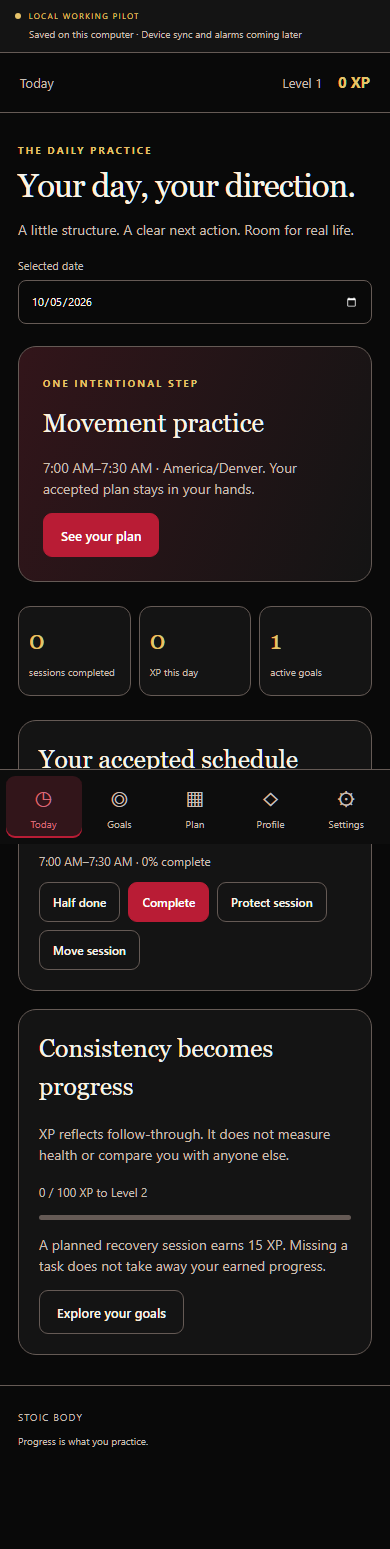
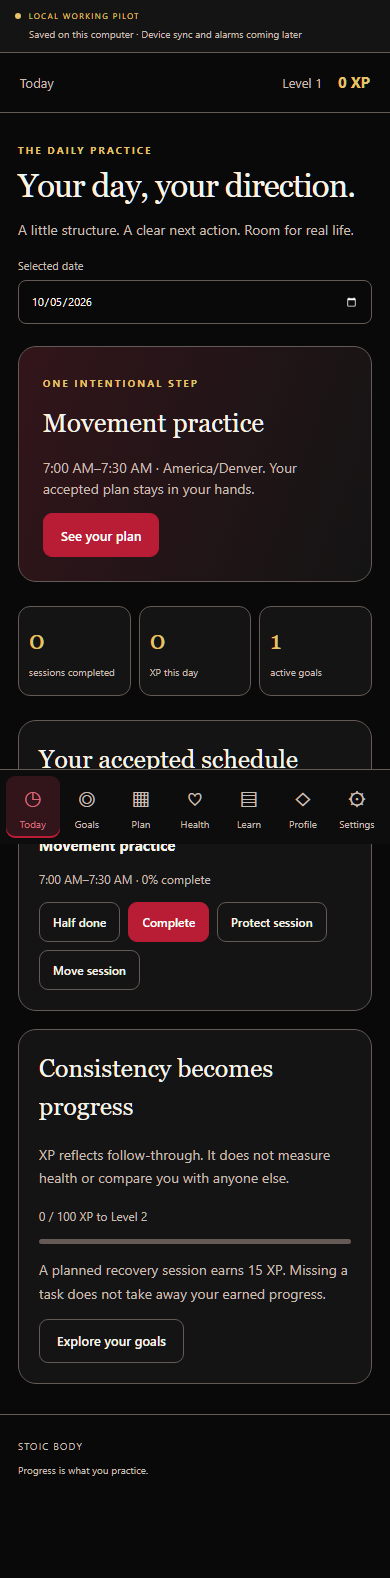
fix: preserve health edits and verify learning and health handoff

diff --git a/apps/local-pilot/public/health.js b/apps/local-pilot/public/health.js
@@ -5,6 +5,7 @@ window.Health = (() => {
   let compare = ['balanced', 'omad'];
   let trainingDraft = { adult: false, restrictions: 'unknown', equipment: [], style: 'full-body', minutes: 30, preference: 'higher-reps', goalId: null };
   const edits = {};
+  const historyLimits = {};
   const el = (...a) => ctx.element(...a), button = (...a) => ctx.action(...a), records = () => ctx.snapshot().health || [];
   function field(form, name, label, type = 'text', value = '', options = [], required = true) {
     const wrapper = el('label', label), input = el(type === 'select' ? 'select' : type === 'textarea' ? 'textarea' : 'input'); input.name = name; input.setAttribute('aria-label', label);
@@ -23,18 +24,22 @@ window.Health = (() => {
   function save(kind, data) { const edit = edits[kind]; void ctx.command('health.save', edit?.id || crypto.randomUUID(), { kind, data: { ...data, date: data.date || ctx.date() } }, edit?.revision || 0, 'Health entry saved.'); }
   function link(parent, source) { const a = el('a', source.title); a.href = source.url; a.target = '_blank'; a.rel = 'noopener noreferrer'; parent.append(a, el('small', ` · ${source.published || 'Publication date not verified'}${source.access ? ` · ${source.access}` : ''}`, 'muted')); }
   function list(kind, parent, title) {
-    const list = ctx.card(title), entries = records().filter(r => r.kind === kind).slice().reverse().slice(0, 20);
+    const list = ctx.card(title), all = records().filter(r => r.kind === kind).slice().reverse().sort((a, b) => String(b.data.date).localeCompare(String(a.data.date)));
+    const limit = historyLimits[kind] || 20, entries = all.slice(0, limit);
     if (!entries.length) list.append(el('p', 'Your entries will appear here.', 'muted'));
     for (const r of entries) {
       const row = el('article', undefined, 'pilot-row'), d = r.data;
       row.append(el('h3', String(d.title || d.exercise || (kind === 'water' ? `${d.ml} ml` : kind === 'measurement' ? `${d.metric}: ${d.value} ${d.unit}` : 'Daily check-in'))));
       row.append(el('p', `${d.date}${d.portion ? ` · ${d.portion} · ${d.source}` : ''}${r.archived ? ' · Archived' : ''}`, 'muted'));
+      if (kind === 'workout') row.append(el('p', `${d.sets.map(s => `${s.reps} reps × ${s.load} ${s.unit}`).join('; ') || 'Timed practice'} · ${d.duration} min${d.effort === null ? '' : ` · effort ${d.effort}/10`}${d.pain ? ' · discomfort reported' : ''}`, 'muted'));
       const controls = el('div', undefined, 'pilot-actions');
       if (!r.archived) controls.append(button(`Edit ${kind === 'checkin' ? 'check-in' : kind}`, () => { edits[kind] = r; if (kind === 'workout') { selectedRoutine = String(d.routineId); selectedExercise = String(d.exercise); } ctx.render(); }));
       controls.append(button(r.archived ? 'Restore entry' : 'Archive entry', () => ctx.command('health.archive', r.id, { archived: !r.archived }, r.revision, 'Entry updated.')));
       if (kind === 'food' && !r.archived) controls.append(button('Use again', () => { edits.food = { data: { ...r.data, date: ctx.date() } }; ctx.render(); }));
       row.append(controls); list.append(row);
-    } parent.append(list);
+    }
+    if (all.length > entries.length) list.append(button(`Show more ${kind} entries`, () => { historyLimits[kind] = limit + 20; ctx.render(); }));
+    parent.append(list);
   }
   async function summary(parent, currentGeneration, progress = false) {
     try {
@@ -118,11 +123,12 @@ window.Health = (() => {
     const gear = el('fieldset'); gear.append(el('legend', 'Available equipment (bodyweight is always available)'));
     for (const [key, label] of [['cables', 'Cables'], ['bench', 'Bench'], ['barbell', 'Barbell'], ['pullup', 'Pull-up bar'], ['treadmill', 'Treadmill'], ['bag', 'Boxing bag']]) field(gear, key, label, 'checkbox', trainingDraft.equipment.includes(key), [], false); f.append(gear);
     field(f, 'goal', 'Routine goal', 'select', trainingDraft.goalId || '', [['', 'Health / deliberate practice'], ...ctx.snapshot().goals.filter(g => !g.archived).map(g => [g.id, g.title])], false);
-    submit(f, 'Preview routine', () => { trainingDraft = { adult: f.elements.adult.checked, restrictions: value(f, 'restrictions'), style: value(f, 'style'), minutes: numeric(f, 'minutes'), preference: value(f, 'preference'), equipment: ['cables', 'bench', 'barbell', 'pullup', 'treadmill', 'bag'].filter(k => f.elements[k].checked), goalId: value(f, 'goal') || null }; void ctx.send('training-preview', trainingDraft, 'Routine preview ready. Review before saving.'); });
+    const readDraft = () => ({ adult: f.elements.adult.checked, restrictions: value(f, 'restrictions'), style: value(f, 'style'), minutes: numeric(f, 'minutes'), preference: value(f, 'preference'), equipment: ['cables', 'bench', 'barbell', 'pullup', 'treadmill', 'bag'].filter(k => f.elements[k].checked), goalId: value(f, 'goal') || null });
+    submit(f, 'Preview routine', () => { trainingDraft = readDraft(); void ctx.send('training-preview', trainingDraft, 'Routine preview ready. Review before saving.'); });
     c.append(el('p', 'Starter examples use conservative bodyweight/cable movements. A bench, barbell, pull-up bar or bag selection does not automatically prescribe advanced work. A checkbox is not medical clearance.', 'muted')); left.append(c);
     let previewPanel;
     if (preview) { const review = routineCard(preview, 'Review your starter session'); previewPanel = review; if (preview.eligible) review.append(button('Save routine to tasks', () => ctx.command('training.create', crypto.randomUUID(), preview.input, 0, 'Routine saved. Review its place in Plan.'), true)); left.append(review); }
-    f.addEventListener('input', () => { preview = null; previewPanel?.remove(); });
+    f.addEventListener('input', () => { trainingDraft = readDraft(); preview = null; previewPanel?.remove(); });
     const routines = records().filter(r => r.kind === 'routine' && !r.archived);
     if (routines.length) {
       if (!routines.some(r => r.id === selectedRoutine)) selectedRoutine = routines[0].id;
@@ -130,11 +136,22 @@ window.Health = (() => {
       const routine = routines.find(r => r.id === selectedRoutine), [log, lf, ld] = editor('workout', 'Record actual practice');
       if (!routine.data.exercises.some(e => e.name === selectedExercise)) selectedExercise = routine.data.exercises[0].name;
       const exercise = field(lf, 'exercise', 'Exercise', 'select', selectedExercise, routine.data.exercises.map(e => [e.name, e.name])); exercise.addEventListener('change', () => { selectedExercise = exercise.value; loadAdvice(); });
-      const firstSet = ld.sets?.[0]; field(lf, 'count', 'Number of matching sets', 'number', ld.sets?.length ?? 2); field(lf, 'reps', 'Repetitions per set', 'number', firstSet?.reps ?? 12); field(lf, 'load', 'Load per set', 'number', firstSet?.load ?? 0); field(lf, 'unit', 'Load unit', 'select', firstSet?.unit || 'lb', [['lb', 'lb'], ['kg', 'kg']]);
-      lf.append(el('p', 'Use zero load for bodyweight. Use zero sets for a timed-only practice. This entry records matching sets; log another entry for sets with different reps or loads.', 'muted'));
+      const firstSet = ld.sets?.[0], mixedSets = ld.sets?.some(s => s.reps !== firstSet.reps || s.load !== firstSet.load || s.unit !== firstSet.unit);
+      if (mixedSets) {
+        lf.append(el('p', 'This entry contains different sets. Each recorded set is preserved and can be edited below.', 'muted'));
+        ld.sets.forEach((s, i) => { const group = el('fieldset'); group.append(el('legend', `Set ${i + 1}`)); field(group, `reps${i}`, `Set ${i + 1} repetitions`, 'number', s.reps); field(group, `load${i}`, `Set ${i + 1} load`, 'number', s.load); field(group, `unit${i}`, `Set ${i + 1} unit`, 'select', s.unit, [['lb', 'lb'], ['kg', 'kg']]); lf.append(group); });
+      } else {
+        field(lf, 'count', 'Number of matching sets', 'number', ld.sets?.length ?? 2); field(lf, 'reps', 'Repetitions per set', 'number', firstSet?.reps ?? 12); field(lf, 'load', 'Load per set', 'number', firstSet?.load ?? 0); field(lf, 'unit', 'Load unit', 'select', firstSet?.unit || 'lb', [['lb', 'lb'], ['kg', 'kg']]);
+        lf.append(el('p', 'Use zero load for bodyweight. Use zero sets for a timed-only practice. This entry records matching sets; log another entry for sets with different reps or loads.', 'muted'));
+      }
       field(lf, 'duration', 'Exercise duration (minutes)', 'number', ld.duration || 5); field(lf, 'effort', 'Effort (0–10, optional)', 'number', ld.effort, [], false); field(lf, 'pain', 'Discomfort or pain occurred', 'checkbox', ld.pain || false, [], false); field(lf, 'notes', 'Exercise notes', 'textarea', ld.notes, [], false);
-      submit(lf, 'Save exercise log', () => { const count = numeric(lf, 'count'); if (!Number.isInteger(count) || count < 0 || count > 30) { lf.elements.count.setCustomValidity('Choose 0–30 matching sets.'); lf.elements.count.reportValidity(); return; } lf.elements.count.setCustomValidity(''); save('workout', { date: ld.date, routineId: selectedRoutine, exercise: value(lf, 'exercise'), sets: Array.from({ length: count }, () => ({ reps: numeric(lf, 'reps'), load: numeric(lf, 'load'), unit: value(lf, 'unit') })), duration: numeric(lf, 'duration'), effort: numeric(lf, 'effort'), pain: lf.elements.pain.checked, notes: value(lf, 'notes') }); });
-      lf.elements.count.addEventListener('input', () => lf.elements.count.setCustomValidity(''));
+      submit(lf, 'Save exercise log', () => {
+        let sets;
+        if (mixedSets) sets = ld.sets.map((_, i) => ({ reps: numeric(lf, `reps${i}`), load: numeric(lf, `load${i}`), unit: value(lf, `unit${i}`) }));
+        else { const count = numeric(lf, 'count'); if (!Number.isInteger(count) || count < 0 || count > 30) { lf.elements.count.setCustomValidity('Choose 0–30 matching sets.'); lf.elements.count.reportValidity(); return; } lf.elements.count.setCustomValidity(''); sets = Array.from({ length: count }, () => ({ reps: numeric(lf, 'reps'), load: numeric(lf, 'load'), unit: value(lf, 'unit') })); }
+        save('workout', { date: ld.date, routineId: selectedRoutine, exercise: value(lf, 'exercise'), sets, duration: numeric(lf, 'duration'), effort: numeric(lf, 'effort'), pain: lf.elements.pain.checked, notes: value(lf, 'notes') });
+      });
+      lf.elements.count?.addEventListener('input', () => lf.elements.count.setCustomValidity(''));
       right.append(log); const details = el('details'); details.append(el('summary', 'View saved session instructions'), routineCard(routine.data)); right.append(details);
       const advice = ctx.card('Progression review'); advice.append(el('p', 'Loading your practice history…', 'muted')); right.append(advice); const current = generation;
       let adviceRequest = 0;
@@ -158,7 +175,7 @@ window.Health = (() => {
     ({ fuel, train, progress, evidence })[tab](root, current);
   }
   function onResult(path, data, result) {
-    if (path === 'training-preview') preview = result;
+    if (path === 'training-preview') { if (JSON.stringify(data) !== JSON.stringify(trainingDraft)) return false; preview = result; }
     if (path === 'command' && data.type === 'health.save') edits[data.payload.kind] = null;
     if (path === 'command' && data.type === 'training.create') { selectedRoutine = data.entityId; selectedExercise = ''; preview = null; }
   }

diff --git a/tests/pilot/health-recovery.test.ts b/tests/pilot/health-recovery.test.ts
@@ -1,0 +1,51 @@
+import assert from 'node:assert/strict';
+import test from 'node:test';
+import { chromium, type Page } from 'playwright';
+import { startPilot } from '../../apps/local-pilot/server';
+import type { Snapshot, Command } from '../../src/core/repository';
+async function fixture(run: (page: Page, state: () => Promise<Snapshot>, command: (type: string, entityId: string, payload: unknown) => Promise<void>) => Promise<void>) {
+  const pilot = await startPilot({ databasePath: ':memory:', port: 0 }), browser = await chromium.launch({ headless: true });
+  const page = await browser.newPage(); page.setDefaultTimeout(3000);
+  try {
+    await page.goto(pilot.url); await page.getByText('Nothing scheduled yet.', { exact: true }).waitFor();
+    const bootstrap = await (await page.request.get(`${pilot.url}/api/bootstrap`)).json(), headers = { 'X-Stoic-Token': bootstrap.token, Origin: pilot.url };
+    const state = async (): Promise<Snapshot> => (await (await page.request.get(`${pilot.url}/api/snapshot`, { headers })).json()).snapshot;
+    const command = async (type: string, entityId: string, payload: unknown) => {
+      const data: Command = { schemaVersion: 1, operationId: crypto.randomUUID(), deviceId: 'test', type, entityId, payload, baseRevision: 0 };
+      const r = await page.request.post(`${pilot.url}/api/command`, { headers, data }); assert.equal(r.status(), 200, await r.text());
+    };
+    await run(page, state, command);
+  } finally { await browser.close(); await pilot.close(); }
+}
+test('latest logs sort by date and insertion order and older entries remain accessible', async () => fixture(async (page, _state, command) => {
+  for (let i = 0; i < 21; i++) await command('health.save', `z${String(i).padStart(2, '0')}`, { kind: 'food', data: { date: '2026-10-03', title: `Earlier meal ${i}`, portion: '1 serving', source: 'estimate' } });
+  await command('health.save', 'a-new', { kind: 'food', data: { date: '2026-10-04', title: 'Newest meal', portion: '1 serving', source: 'estimate' } });
+  await page.reload(); await page.getByRole('button', { name: 'Health', exact: true }).click();
+  await page.getByRole('heading', { name: 'Recent meals', exact: true }).waitFor();
+  const list = page.getByRole('heading', { name: 'Recent meals', exact: true }).locator('..');
+  assert.equal(await list.locator('article h3').first().textContent(), 'Newest meal');
+  await page.getByRole('button', { name: 'Show more food entries' }).click();
+  await page.getByRole('heading', { name: 'Earlier meal 0', exact: true }).waitFor();
+  assert.equal(await list.locator('article').count(), 22);
+}));
+test('a delayed training response cannot revert changed suitability or permit stale saving', async () => fixture(async page => {
+  await page.getByRole('button', { name: 'Health', exact: true }).click(); await page.getByRole('button', { name: 'Train', exact: true }).click();
+  await page.getByLabel('I am 18 or older', { exact: true }).check(); await page.getByLabel('Relevant restrictions').selectOption('none');
+  let release!: () => void, intercepted!: () => void;
+  const gate = new Promise<void>(resolve => { release = resolve; }), arrived = new Promise<void>(resolve => { intercepted = resolve; });
+  await page.route('**/api/training-preview', async route => { intercepted(); await gate; await route.continue(); });
+  await page.getByRole('button', { name: 'Preview routine', exact: true }).click(); await arrived;
+  await page.getByLabel('Relevant restrictions').selectOption('yes'); release();
+  await page.waitForFunction(() => !document.querySelector<HTMLButtonElement>('#reload')?.disabled);
+  assert.equal(await page.getByLabel('Relevant restrictions').inputValue(), 'yes');
+  assert.equal(await page.getByRole('button', { name: 'Save routine to tasks', exact: true }).count(), 0);
+}));
+test('editing notes preserves heterogeneous workout set values', async () => fixture(async (page, state, command) => {
+  await command('training.create', 'routine', { adult: true, restrictions: 'none', equipment: ['cables'], style: 'full-body', minutes: 30, preference: 'higher-reps' });
+  const sets = [{ reps: 12, load: 20, unit: 'lb' }, { reps: 10, load: 10, unit: 'kg' }];
+  await command('health.save', 'log', { kind: 'workout', data: { date: '2026-10-04', routineId: 'routine', exercise: 'Cable row', sets, duration: 6, effort: 6, pain: false, notes: 'Original' } });
+  await page.reload(); await page.getByRole('button', { name: 'Health', exact: true }).click(); await page.getByRole('button', { name: 'Train', exact: true }).click();
+  await page.getByRole('button', { name: 'Edit workout', exact: true }).click(); await page.getByLabel('Exercise notes').fill('Corrected note');
+  await page.getByRole('button', { name: 'Save exercise log', exact: true }).click(); await page.getByText('Health entry saved.', { exact: true }).waitFor();
+  const log = (await state()).health.find(r => r.id === 'log')!; assert.equal(log.data.notes, 'Corrected note'); assert.deepEqual(log.data.sets, sets);
+}));

diff --git a/scripts/test-learning-pilot.ts b/scripts/test-learning-pilot.ts
@@ -40,6 +40,13 @@ async function run() {
     check('notes, linked task and XP survive a real server restart');
     await page.getByRole('button', { name: 'Back to learning library', exact: true }).click();
     await page.getByRole('button', { name: 'My paths', exact: true }).click(); check('enrolled filter shows one course', await page.locator('.learn-course').count() === 1);
+    await page.getByRole('button', { name: 'All paths', exact: true }).click(); check('nine learning paths are available', await page.locator('.learn-course').count() === 9);
+    await page.screenshot({ path: join(evidence, 'library-desktop.png'), fullPage: true });
+    await page.getByRole('button', { name: 'Explore AI from foundations to agents', exact: true }).click();
+    check('the image roadmap includes eleven topic checkpoints', await page.locator('.learn-step').count() === 11);
+    await page.getByRole('button', { name: '07  RAG — retrieving useful evidence', exact: true }).click();
+    check('RAG opens its verified curriculum chapter', (await page.getByRole('link', { name: 'Open lesson or reference' }).getAttribute('href'))?.endsWith('/15-rag-and-vector-databases'));
+    await page.screenshot({ path: join(evidence, 'ai-roadmap-desktop.png'), fullPage: true });
     check('no browser runtime errors', errors.length === 0);
     writeFileSync(join(evidence, 'browser-checks.json'), JSON.stringify({ at: new Date().toISOString(), checks, errors }, null, 2)); console.log(`${checks.length} learning browser checks passed.`);
   } finally { await browser.close(); await pilot.close(); const target = resolve(dir); assert.equal(dirname(target), resolve(tmpdir())); assert.ok(basename(target).startsWith('stoic-learning-')); rmSync(target, { recursive: true, force: true }); }

diff --git a/src/core/health-store.ts b/src/core/health-store.ts
@@ -9,7 +9,7 @@ export function migrateHealth(db: DatabaseSync) {
   catch (error) { if (db.isTransaction) db.exec('ROLLBACK'); throw error; }
 }
 export function readHealth(db: DatabaseSync, owner: string): HealthRecord[] {
-  return db.prepare('SELECT id,kind,revision,archived,data_json FROM core_health WHERE owner_id=? ORDER BY id').all(owner).map(r => ({ id: String(r.id), kind: String(r.kind), revision: Number(r.revision), archived: Boolean(r.archived), data: JSON.parse(String(r.data_json)) }));
+  return db.prepare('SELECT id,kind,revision,archived,data_json FROM core_health WHERE owner_id=? ORDER BY rowid').all(owner).map(r => ({ id: String(r.id), kind: String(r.kind), revision: Number(r.revision), archived: Boolean(r.archived), data: JSON.parse(String(r.data_json)) }));
 }
 export function healthDate(v: unknown): string {
   if (typeof v !== 'string' || !/^\d{4}-\d\d-\d\d$/.test(v) || v < '1970-01-01' || v > '2100-12-31' || !Number.isFinite(Date.parse(`${v}T00:00:00Z`)) || new Date(`${v}T00:00:00Z`).toISOString().slice(0, 10) !== v) throw new Error('Choose a valid date.');

diff --git a/apps/local-pilot/public/app.js b/apps/local-pilot/public/app.js
@@ -51,7 +51,7 @@ async function send(path, data, success) {
   setBusy(true); errorMessage('');
   try {
     const result = await api(path, data); pendingRequest = null;
-    Health.onResult(path, data, result);
+    if (Health.onResult(path, data, result) === false) { message('Inputs changed while the routine preview was loading. Request a fresh preview.'); return; }
     if (path === 'propose') { preview = result; timezone = result.proposal.timezone; selectedDate = data.date; }
     if (path === 'time') manualPreview = result;
     if (path === 'command') {

diff --git a/docs/requirements.md b/docs/requirements.md
@@ -1,6 +1,6 @@
 # Requirements and verification register
 
-Date: 2026-10-04. 96 requirements. Original requirements are retained; B11 adds mandatory launch sync. [Phase 2 design/plan coverage](architecture/traceability.md) is separate from actual implementation evidence. See the [baseline assessment](architecture/baseline-assessment.md) for mismatches in separately created app code.
+Date: 2026-10-04. 101 requirements including the five learning additions below. Original requirements are retained; B11 adds mandatory launch sync. [Phase 2 design/plan coverage](architecture/traceability.md) is separate from actual implementation evidence. See the [baseline assessment](architecture/baseline-assessment.md) for mismatches in separately created app code. The dated continuation evidence below updates earlier design-only statuses without implying full production acceptance.
 
 | ID | Source | Requirement | Proposed design | Phase | Required verification | Current status / evidence |
 |---|---|---|---|---|---|---|
@@ -100,3 +100,21 @@ Date: 2026-10-04. 96 requirements. Original requirements are retained; B11 adds 
 | B10 | Later user request: competitors and top sellers/performers | Compare relevant competitors using actual market-performance signals, interfaces, operating flows and commercial models; distinguish revenue, downloads, users, ratings and awards. | Dated competitor matrix and source register with metric scope and confidence | 1, 6B, 8 | Audit country/platform/period/source, conflicting snapshots and unsupported rankings | 24-product public-evidence comparison recorded; native/account behavior not tested; research/competitors/README.md; research/competitors/matrix.md; research/competitors/sources.json |
 | V07 | Later user request: competitor interfaces and ideas | Study competitor screens and end-to-end interactions and adapt useful patterns into one coherent original Stoic Body experience. | Visual reference board, 26-step journey map and explicit adaptation decisions | 1–3, 7 | Compare prototypes against benchmark tasks and verify clarity, effort, accessibility and failure recovery | 10 public visual references and proposed adaptations; prototype pending approval; research/competitors/interface-board.html; research/competitors/visual-audit.md; research/competitors/experience-patterns.md; partial Phase 3 design evidence: [review](phase-3-review.md); production acceptance remains pending |
 | B11 | Direct discovery answer 2026-10-04 during Phase 2 | Automatic sync across iPhone/iPad and Windows is required at launch; preserve offline core and reconcile conflicts, retries and duplicated completions. | Local transactional outbox, authenticated command/delta service, owner-scoped records and explicit conflict resolution | 2,4,7,8 | Two devices offline then reconnect in both orders; completion awards once, edits conflict visibly, restart preserves records, revoked/deleted accounts cannot sync | Confirmed launch requirement, incomplete: local transactional commands, replay/outbox and conflict-safe schedule acceptance verified. Automatic iPhone/iPad and Windows synchronization is not implemented. [Current pilot and evidence](phase-4-local-pilot.md). |
+
+## Health and learning continuation — 2026-10-04
+
+| Existing IDs | Current coverage | Remaining boundary | Evidence |
+|---|---|---|---|
+| N01–N07 | Fourteen diet cards with evidence/source labels and distinct food/timing/liquid categories | Content refresh failures labeled; personal diet prescriptions not generated | phase-5-health-checkpoint.md; tests/core/health.test.ts |
+| N09–N14 | Manual food/water/context, uncertainty labels, corrected entries, saved-meal reuse; no logging XP | Recipes/groceries/photo/barcode and weighing-frequency preferences remain | scripts/test-health-pilot.ts |
+| F01–F08, F10–F11 | Equipment/time/suitability starter routines, actual sets and effort, conservative cues, measurements, non-contact boxing; calendar tasks | Full adaptive multiweek programs, advanced intensity and independent exercise demonstrations remain | tests/core/training.test.ts; scripts/test-health-pilot.ts |
+| L01–L04 | Nine paths with prerequisites, external verified resources, original practice briefs, local notes/progress and shared calendar focus tasks | All-purpose generated curricula, provider progress sync, teaching paths and spaced review remain | phase-6-learning-checkpoint.md; tests/core/learning.test.ts; scripts/test-learning-pilot.ts |
+| G02, G05–G06 | Agreed 15/25/15 focus/workout/recovery XP through existing completion ledger; no course-checkbox/health-log awards; duplicate prevention | Wider badges/rewards/game features remain | core and browser tests above |
+
+| ID | Source | Requirement | Design / phase | Verification / current state |
+|---|---|---|---|---|
+| L06 | User learning additions | AI-assisted coding, software development, UI/web design, frontend/backend, automation, Antigravity and YouTube design | Curated learning catalog; 6A | Nine linked paths with original practice checkpoints; catalog + browser journey |
+| L07 | User Brilliant comparison | Research fun/engagement, progress and scoring patterns | Dated primary-source comparison; 6A | phase-6-learning-benchmarks.md; no invented proprietary formula, sales rank or success metrics |
+| L08 | User free-repository preference | Keep learning lightweight with free external course resources | Static catalog and local progress; 6A | No new package or embedded course engine; provider resources open separately; costs disclosed |
+| L09 | User subscription answer | Cover Google AI Ultra when teaching Antigravity | Official plan/usage links and review exercise; 6A | Ultra quota/overage wording visible; actual account limits unverified |
+| L10 | User image and schedule request | AI, ML, DL, GenAI, LLMs, RAG, agentic AI, multimodal AI, fine-tuning, prompting and AI safety | Eleven-topic path and timeboxed shared-planner tasks; 6A | Core test verifies all topic IDs and scheduling integration; no automatic undisclosed calendar placement |

diff --git a/docs/progress.md b/docs/progress.md
@@ -6,7 +6,7 @@ Current state: Phase 0 and expanded Phase 1 approved. Phase 2 provisionally appr
 
 Personal intake: owner profile and 28 goals/routines remain in private/. Unknown health/units/deadlines still limit personal prescriptions. No individualized schedule or diet/workout prescription has been generated by this planning workstream.
 
-The separate Next.js implementation is preserved; its [Phase 2 baseline assessment](architecture/baseline-assessment.md) is historical. Current worktree checks pass: 77 tests (including six browser recovery regressions), 19 additional browser journey checks, TypeScript, and scoped ESLint. A fresh review found three recovery problems; all were reproduced and corrected. The linter covers the new core/pilot, not the legacy app. No native app, sync, alarm, encryption, purchase or full restoration acceptance has been completed.
+The separate Next.js implementation is preserved; its [Phase 2 baseline assessment](architecture/baseline-assessment.md) is historical. Current worktree checks pass: 95 tests (including nine browser recovery regressions), 47 additional browser journey checks, TypeScript, and scoped ESLint. Fresh health/learning review found three health defects; all were reproduced and corrected. See [continuation verification](health-learning-verification.md). The linter covers the new core/pilot, not the legacy app. No native app, sync, alarm, encryption, purchase or full restoration acceptance has been completed.
 
 | Phase | State | Required exit artifact | Approval |
 |---|---|---|---|
@@ -15,16 +15,21 @@ The separate Next.js implementation is preserved; its [Phase 2 baseline assessme
 | 2 — Specification/architecture | Provisionally approved | [Phase 2 packet](phase-2-review.md), 96-row design mapping and four proposed implementation plans | User: for now yes |
 | 3 — Visual prototype | Accepted for progression; published preview | [Three directions and interactive journeys](phase-3-review.md), 126 general checks, 18 appearance checks and upload evidence | User: Great.Next phase |
 | 4 — Working core | In progress; local pilot ready for review | [Working flow and evidence](phase-4-local-pilot.md); native clients, required sync, backup and reminders remain | Entry authorized; full phase exit not ready |
-| 5 — Nutrition/fitness | Not started in this workflow | Researched content, suitable plans/logs and progress | Not requested |
-| 6A — Learning/coaching/imports | Not started | Verified resources/quotes and staged imports | Not requested |
+| 5 — Nutrition/fitness | Local health slice implemented; full phase open | [Health checkpoint](phase-5-health-checkpoint.md), fourteen diet comparisons and durable health/training logs | Entry authorized by next-phase request; no full exit claimed |
+| 6A — Learning/coaching/imports | Lightweight learning slice implemented; coaching/imports open | [Learning checkpoint](phase-6-learning-checkpoint.md), nine paths, 43 practice checkpoints, shared calendar tasks | Direct learning requests authorize this slice |
 | 6B — Commercial readiness | Proposed split; not started | Approved offer, native packages and reviewable listings | Not requested |
 | 7 — Verification | Not started | Actual end-to-end, native-device, security and recovery evidence | Not requested |
 | 8 — Delivery | Not started | Reproducible packages/guides and per-store publication approval | Not requested |
 
 ## Resume procedure
 
-Read the latest user steering, this tracker, decisions.md, phase-4-local-pilot.md and phase-4-ledger.md. Continue in C:/Users/stoic/AntigravityWorkspace/worktrees/stoic-body-phase4. The primary checkout may have unrelated concurrent work. Preserve the separate implementation and secrets. Phase 4 is authorized; Phase 5 is not. The separate upload instruction authorized the GitHub/Vercel preview publication. This local service is not a deployment candidate; store release still requires approval.
+Read the latest user steering, this tracker, decisions.md and the Phase 4/5/6 checkpoint documents. Continue in C:/Users/stoic/AntigravityWorkspace/worktrees/stoic-body-phase4. The primary checkout may have unrelated concurrent work. Preserve the separate implementation and secrets. Phase 5 and the learning slice were authorized by subsequent direct requests. The separate upload instruction authorized the GitHub/Vercel preview publication. This local service is not a deployment candidate; store release still requires approval.
 
 ## Next authorized actions
 
-Continue Phase 4 backup/restore, richer schedule lifecycle and account/sync adapters; resolve hosting/client questions before dependent deployment work. Maintain automatic launch sync as a requirement. Apple build access, minimum OS versions and commercial pricing remain open. Preserve concurrent app changes. The completed local-pilot addendum does not mark the larger C01–C07 tasks complete.
+Local health/learning review and handoff are complete for the scoped slices. Later integration work still includes Phase 4 backup/restore, richer schedule lifecycle and account/sync adapters; resolve hosting/client questions before dependent deployment work. Maintain automatic launch sync as a requirement. Apple build access, minimum OS versions and commercial pricing remain open. Preserve concurrent app changes. Local slices do not mark the larger subsystem plans complete.
+
+## Health and learning continuation
+
+The latest requests add competitor research at every phase, a Brilliant-informed learning companion, free external course resources, Google AI Ultra guidance, and an AI concepts roadmap from the supplied image. Original scope is retained. User-selected external courses replace a heavy embedded course engine for this slice. Current source research and acceptance mappings are in phase-5-health-checkpoint.md and phase-6-learning-checkpoint.md. Final independent review and updated totals are recorded in the continuation verification report.
+

diff --git a/docs/superpowers/plans/2026-10-04-health-workspace.md b/docs/superpowers/plans/2026-10-04-health-workspace.md
@@ -31,9 +31,9 @@ Files: src/core/health-store.ts, src/core/health-metrics.ts, src/core/health-con
 
 Interfaces: Snapshot.health contains {id,kind,revision,archived,data}; health.save creates/updates a strict kind-specific record, health.archive preserves history. Migration adds core_health with owner FK. food has date/title/portion/source and optional nutrients; water uses ml; checkin stores subjective daily context; measurement has metric/value/unit/method; workout stores dated sets/effort/notes. readHealth and summarizeHealth are pure/read-only outputs. Content includes fourteen distinct diet cards with sources, evidence, practical/training considerations and exclusions.
 
-- [ ] Write failing cases for valid save/replay/edit/conflict, owner scoping, rollback, malformed dates/units/nutrients, nullable totals and weight means.
-- [ ] Implement additive schema and strict validation within existing transactions; catalog sources stay separate from user data.
-- [ ] Run targeted tests, typecheck and lint; commit.
+- [x] Write failing cases for valid save/replay/edit/conflict, owner scoping, rollback, malformed dates/units/nutrients, nullable totals and weight means.
+- [x] Implement additive schema and strict validation within existing transactions; catalog sources stay separate from user data.
+- [x] Run targeted tests, typecheck and lint; commit.
 
 ## Task 2: Transparent routines and shared scheduling
 
@@ -41,9 +41,9 @@ Files: src/core/training.ts, repository.ts, tests/core/training.test.ts.
 
 Interfaces: buildRoutine(input) validates adult/restriction/equipment/style/duration inputs and returns eligible/reasons/session/exercises. training.create stores a routine and matching task in one existing command transaction; failure rolls back both. Workout logs reference a saved routine and valid exercise. progressionAdvice uses at least three comparable dated logs and never increases load after pain/high effort; it offers a reviewable cue, not an automatic change.
 
-- [ ] RED tests for unknown screening, missing equipment, time bounds, valid cable/bodyweight options, atomic routine/task creation, replay, and conservative progression.
-- [ ] Implement reviewed starter full-body, upper/lower and push/pull/legs sessions, calisthenics, treadmill walking, non-contact boxing and recovery. High-intensity/sprint/heavy methods remain education with prerequisites where unscreened.
-- [ ] Run targeted/full tests, typecheck/lint; commit.
+- [x] RED tests for unknown screening, missing equipment, time bounds, valid cable/bodyweight options, atomic routine/task creation, replay, and conservative progression.
+- [x] Implement reviewed starter full-body, upper/lower and push/pull/legs sessions, calisthenics, treadmill walking, non-contact boxing and recovery. High-intensity/sprint/heavy methods remain education with prerequisites where unscreened.
+- [x] Run targeted/full tests, typecheck/lint; commit.
 
 ## Task 3: Health UI, end-to-end evidence and review
 
@@ -51,8 +51,9 @@ Files: apps/local-pilot/public/health.js, app.js, index.html, styles.css, server
 
 Interfaces: authenticated GET health-content and POST training-preview; rendering module receives snapshot/command/send helpers. Food create/edit/reuse, hydration, daily context, measurements/trends, evidence comparison, routine preview/save and actual sets are accessible in Health. Scheduling remains reviewed through Plan; routine display links to practice logs.
 
-- [ ] Write a failing browser journey for food unknowns/edit/reuse, hydration, measurements, source links, safe routine eligibility, scheduling and logged sets without duplicate XP.
-- [ ] Implement responsive UI and real API wiring; preserve error/retry behavior.
-- [ ] Run tests, TypeScript and lint; inspect desktop/mobile; retain synthetic screenshots and source/feature mapping.
-- [ ] Request one fresh review, grade findings and fix material issues with RED→GREEN regressions.
-- [ ] Commit, restart the local pilot, open Health and update progress/requirements. Distinguish implemented features from remaining Phase 4/5 acceptance.
+- [x] Write a failing browser journey for food unknowns/edit/reuse, hydration, measurements, source links, safe routine eligibility, scheduling and logged sets without duplicate XP.
+- [x] Implement responsive UI and real API wiring; preserve error/retry behavior.
+- [x] Run tests, TypeScript and lint; inspect desktop/mobile; retain synthetic screenshots and source/feature mapping.
+- [x] Request one fresh review, grade findings and fix material issues with RED→GREEN regressions.
+- [x] Commit, restart the local pilot, open Health and update progress/requirements. Distinguish implemented features from remaining Phase 4/5 acceptance.
+

diff --git a/docs/health-learning-verification.md b/docs/health-learning-verification.md
@@ -1,0 +1,42 @@
+# Health and learning continuation — verification
+
+Date: 2026-10-04. Branch: codex/stoic-body-core. This verifies the local slice, not the full app or store release.
+
+## Final checks
+
+| Check | Result |
+|---|---|
+| npm test | 95 passing tests, including three new real-browser health recovery regressions |
+| npm run test:pilot | 19 browser journey checks passed |
+| npm run test:health | 15 health browser checks passed |
+| npm run test:learning | 13 learning browser checks passed, including server restart and the image's 11-topic path |
+| npm run typecheck | Passed |
+| npm run lint | Passed for scoped core, pilot and test code |
+| Visual inspection | Desktop/mobile health and learning screens; nine-path library and AI roadmap inspected. Synthetic screenshot data only. |
+
+The 95-test suite also contains legacy prototype tests. Their names do not establish backup/restore or other missing functionality in this local pilot. Only the mapped working behaviors in the checkpoint documents are claimed.
+
+## Fresh independent review
+
+Reviewed immutable range fc7eed5..3af1de3. Verdict: ready with fixes. No Critical or Minor findings; three Important findings were reproduced and fixed in one pass:
+
+1. A delayed routine response could restore outdated suitability answers. The draft now captures live input changes; stale responses are discarded without resetting those changes.
+2. Editing only notes could flatten mixed workout sets. The editor now renders individual set values for heterogeneous records and preserves each load, repetition count and unit.
+3. UUID ordering and a hard 20-entry cutoff hid history. Entries now sort by recorded date with insertion order for ties and expose additional history through Show more.
+
+All three tests in tests/pilot/health-recovery.test.ts were observed failing before implementation and passing afterward; the whole suite then passed 95/95. No second reviewer was used. No deferred minor findings.
+
+## Rulings and open boundaries
+
+- Proceed under approved specification/direct phase and feature requests, with local reversible changes. No redundant internal approval round; cost if scope differs is local revision before release.
+- Keep unfinished Phase 4 sync, native alarms, backup/restore and release authentication requirements. A local slice cannot waive them; later adapters and integration tests are still needed.
+- Keep advanced training methods and individualized prescriptions outside the generated starter templates. Fuller suitability and program verification are still required.
+- Use external learning resources as requested. Provider completion remains manual and providers can change their material; no claim of embedded instruction or automatic mastery assessment.
+- The reviewer did not independently refetch sources under its no-network assignment. Dated author research, actual source-access limitations and optional service costs remain in the research packets. No account-specific quotas were read.
+- Native-device accessibility, commercial release certification, quote/import features and broader adaptive training are still separate acceptance work.
+- Preserve the active branch/worktree and scratch evidence. The existing user workflow is a local reviewable pilot; no merge, public deployment, account creation or destructive cleanup is necessary for this handoff.
+
+## Next phase boundary
+
+The next phase decision should reconcile required sync/alarms/backup with the selected launch clients, or expand approved health/learning functionality. Do not infer full Phase 4, 5 or 6 exit from this checkpoint. Source files remain in the isolated worktree; the separate primary checkout and public Vercel prototype are preserved.
+`Live check: the restarted service at 127.0.0.1:4330 displayed nine learning paths, all eleven AI topics and the Health form. Read-only browser verification; no user records changed.`

diff --git a/docs/superpowers/plans/2026-10-04-learning-hub.md b/docs/superpowers/plans/2026-10-04-learning-hub.md
@@ -29,21 +29,22 @@ Files: src/core/learning-content.ts, learning-store.ts, repository.ts; tests/cor
 
 Interfaces: Course has id/title/provider/url/level/prerequisite/cost/format/checkpoints; each checkpoint has id/title/url/minutes/deliverable. LearningEnrollment has id/revision/checkpoints keyed by checkpoint ID with completed/notes/taskId. Commands learning.enroll (entityId course ID), learning.checkpoint ({checkpointId,completed,notes}), learning.practice ({checkpointId,minutes,goalId}) use enrollment revision. One practice task per checkpoint, kind focus, budget 15. readLearning exposes owned enrollment in Snapshot.learning. Migration 5 is additive. No XP on learning commands.
 
-- [ ] Write RED tests for persistence, isolation, revision conflicts, invalid data, rollback and duplicate practice planning.
-- [ ] Implement nine curated paths (including the user's 11-topic AI image roadmap), strict store and command integration; preserve task identity on repeat planning.
-- [ ] Run targeted tests/typecheck/lint and commit.
+- [x] Write RED tests for persistence, isolation, revision conflicts, invalid data, rollback and duplicate practice planning.
+- [x] Implement nine curated paths (including the user's 11-topic AI image roadmap), strict store and command integration; preserve task identity on repeat planning.
+- [x] Run targeted tests/typecheck/lint and commit.
 
 ## Task 2: Lightweight Learn screen and verification
 Files: apps/local-pilot/public/learn.js, app.js, index.html, styles.css, server.ts; scripts/test-learning-pilot.ts; docs/phase-6-learning-checkpoint.md.
 
 Interfaces: authenticated GET learning-content; Learn.render/init receives shared DOM/API/command/navigation helpers. Library filters, enrollment, next checkpoint, original practice brief, external link, notes/completion/undo and practice task creation. Metrics: own checkpoint count and XP from linked calendar sessions, never estimated provider mastery.
 
-- [ ] RED browser journey: enroll, open real resource URL, save note/complete/undo, add one practice task, review schedule, earn 15 XP once and retain data after reload.
-- [ ] Implement responsive cards/course detail, cost/source labels, explicit full-course links and progress limitations.
-- [ ] Run all core and browser checks, typecheck/lint; inspect mobile and desktop evidence.
-- [ ] Include in one fresh final review with health; fix material findings RED→GREEN; commit and restart pilot.
+- [x] RED browser journey: enroll, open real resource URL, save note/complete/undo, add one practice task, review schedule, earn 15 XP once and retain data after reload.
+- [x] Implement responsive cards/course detail, cost/source labels, explicit full-course links and progress limitations.
+- [x] Run all core and browser checks, typecheck/lint; inspect mobile and desktop evidence.
+- [x] Include in one fresh final review with health; fix material findings RED→GREEN; commit and restart pilot.
 
 ## Scope decisions
 Direct feature requests authorize this local implementation. No extra design approval round. Course linking replaces the proposed embedded lesson engine as requested. Provider accounts, automatic course completion sync, executing code, cloud quota retrieval and a universal plugin installer are out of this slice. The full Phase 6 quote/import work is still open.
 
 Image steering: add AI, ML, DL, generative AI, LLMs, RAG, agentic AI, multimodal AI, prompt engineering, fine-tuning and AI safety as a dedicated ordered path. Each checkpoint can create a timeboxed focus task in the shared planning system. The graphic is a topic reference, not an authoritative hierarchy or an instruction to download its named products.
+

diff --git a/docs/decisions.md b/docs/decisions.md
@@ -65,3 +65,11 @@ Phase 0 was approved on 2026-10-04 by the user message: Great. continue throguh 
 - DEC-47 — Data integrity: schedule acceptance verifies the stored preview against current planning state and commits all placements atomically. Undo retains cancellation history and refuses plans whose sessions have changed. User-confirmed moves and protection controls preserve existing commitments.
 - DEC-48 — Recovery: confirm edits before clearing their identity; uncertain saves retain the same operation ID for retry, definitive rejection releases controls, and reconnect preserves visible recovery. Invalid timezone drafts never replace the accepted display timezone. Verified by failing-then-passing browser regressions.
 - DEC-49 — Local pilot checkpoint: 77 tests, 19 additional browser checks, TypeScript and scoped ESLint passed. All fresh-review findings corrected. Full Phase 4 exit remains open; Phase 5 is not started. See phase-4-local-pilot.md for exact implementation and verification boundaries.
+
+- DEC-50 — Subsequent user next-phase request authorizes local Phase 5 health implementation while preserving unfinished Phase 4 launch requirements. Research leading products before each phase; saved in AGENTS.md and dated research packets.
+- DEC-51 — Health scope: manual nullable nutrition logs, evidence comparisons, measurement trends and conservative starter training templates. No unsupported restrictive prescription, image-derived diagnosis or numerical goal-date guarantee.
+- DEC-52 — Direct learning requests authorize software, UI/web, frontend/backend, automation, Antigravity and YouTube learning. Adapt Brilliant's visible progress/effort principles; keep the previously approved 15-XP practice award and avoid claiming its undisclosed formula or retention metrics.
+- DEC-53 — User's free-course proposal selects a lightweight catalog with external learning links and local notes/progress/scheduling. No whole learning-platform clone, automatic third-party account actions or remote code runtime.
+- DEC-54 — Google AI Ultra guidance uses current official Antigravity plan documentation; account limits were not accessed. Distinguish included quota from optional paid credit overages and labs.
+- DEC-55 — Supplied infographic contributes eleven AI topics. Keep them in the existing app and shared planning system. The ordered roadmap is a suggested learning path; the pictured linear taxonomy is not repeated as fact.
+- DEC-56 — Retain the isolated local branch/worktree and working pilot for review. Do not deploy the personal SQLite service through the separate public prototype upload route. Full phase exit, store release and required sync remain outstanding.
